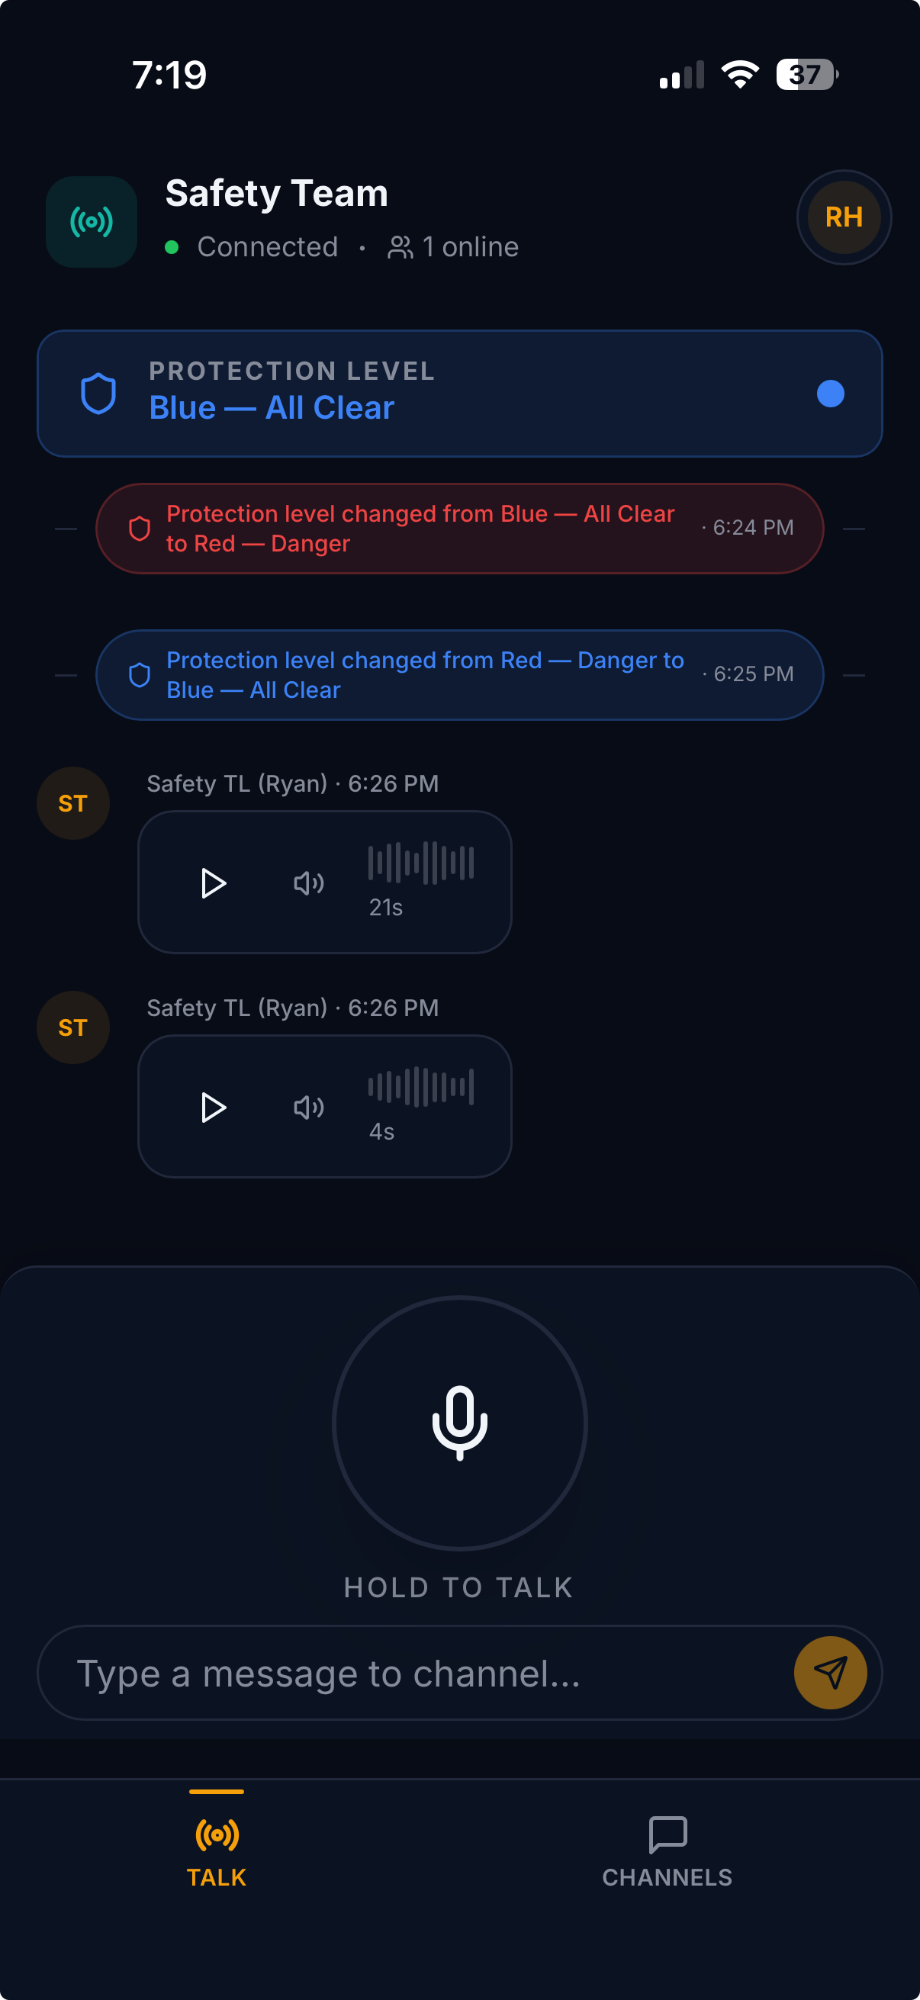
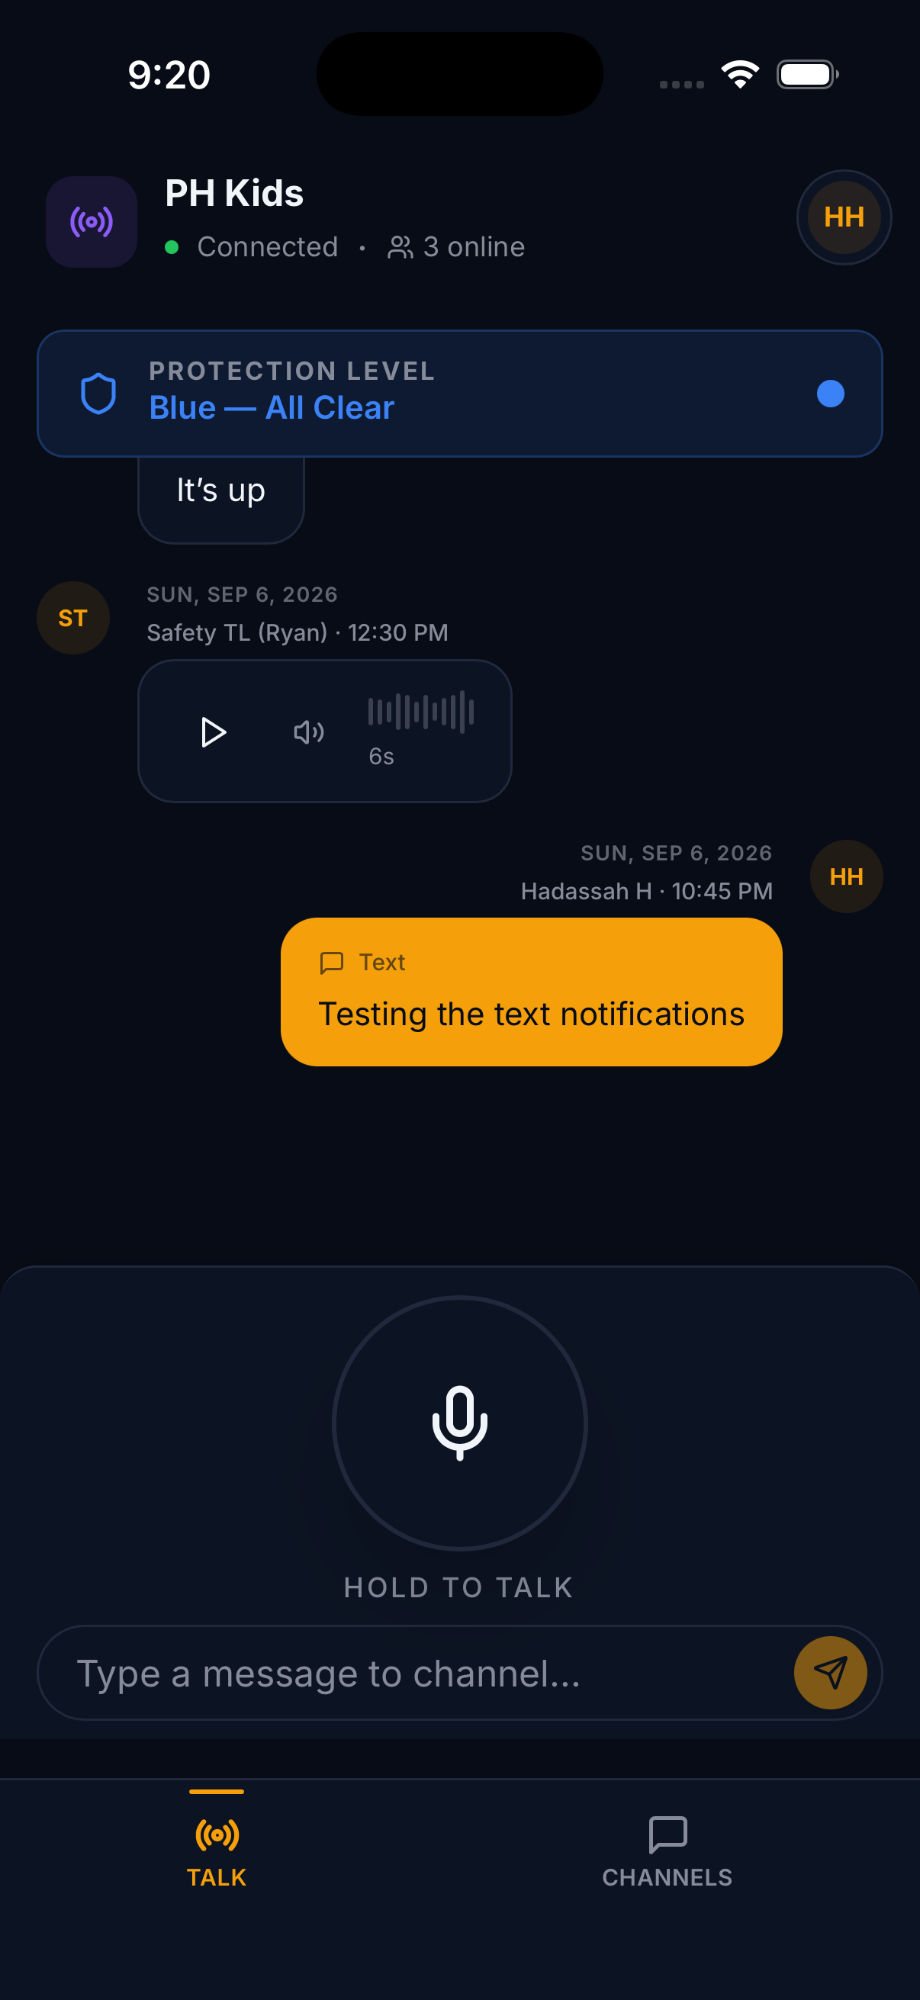
Add daily access code frame and iPad 2048x2732 screenshot size
Export three frames per size in sign-in flow order, add the second
accepted iPad 13" portrait size, and refresh the Talk frame with one
showing both voice and text messages.

diff --git a/src/lib/appStoreScreenshots.test.js b/src/lib/appStoreScreenshots.test.js
@@ -16,9 +16,10 @@ const REQUIRED = [
   { dir: "iphone-6.5-inch-1242x2688", width: 1242, height: 2688 },
   { dir: "iphone-5.5-inch-1242x2208", width: 1242, height: 2208 },
   { dir: "ipad-13-inch-2064x2752", width: 2064, height: 2752 },
+  { dir: "ipad-13-inch-2048x2732", width: 2048, height: 2732 },
 ];
 
-const FRAMES = ["01-signin.png", "02-talk.png"];
+const FRAMES = ["01-signin.png", "02-daily-code.png", "03-talk.png"];
 
 describe("App Store Connect screenshots", () => {
   for (const spec of REQUIRED) {
@@ -41,6 +42,7 @@ describe("App Store Connect screenshots", () => {
   it("keeps source frames for regeneration", () => {
     const names = readdirSync(shotRoot);
     assert.ok(names.includes("source-signin.png"));
+    assert.ok(names.includes("source-daily-code.png"));
     assert.ok(names.includes("source-talk.png"));
   });
 });

diff --git a/assets/app-store-screenshots/README.md b/assets/app-store-screenshots/README.md
@@ -1,9 +1,12 @@
 # App Store Connect screenshots
 
-Every folder holds the same two portrait frames at one accepted size:
+Every folder holds the same three portrait frames at one accepted size, ordered
+to follow the flow a reviewer walks through:
 
 - `01-signin.png` — sign-in screen
-- `02-talk.png` — Talk channel with protection level, voice messages, and hold-to-talk
+- `02-daily-code.png` — verse of the day and daily access code gate
+- `03-talk.png` — Talk channel with protection level, voice and text messages,
+  and hold-to-talk
 
 All files are PNG, 8-bit RGB, no alpha channel. App Store Connect rejects
 transparency and any size not listed below.
@@ -21,12 +24,15 @@ into, so match the folder to the slot heading on the page.
 | 6.5" Display (alternate) | `iphone-6.5-inch-1242x2688` | 1242 × 2688 |
 | 5.5" Display | `iphone-5.5-inch-1242x2208` | 1242 × 2208 |
 | iPad 13" Display | `ipad-13-inch-2064x2752` | 2064 × 2752 |
+| iPad 13" Display (alternate) | `ipad-13-inch-2048x2732` | 2048 × 2732 |
 
-The 6.5" slot accepts either 1284 × 2778 or 1242 × 2688; upload one folder, not
-both. `iphone-5.5-inch-1242x2208` is a different slot from
+Where a slot lists two folders, either is accepted; upload one, not both.
+`iphone-5.5-inch-1242x2208` is a different slot from
 `iphone-6.5-inch-1242x2688` despite the shared 1242 width.
 
-The iPad set is required because `TARGETED_DEVICE_FAMILY` is `1,2`.
+The iPad set is required because `TARGETED_DEVICE_FAMILY` is `1,2`. Only
+portrait is exported: iPhone is portrait-locked in `Info.plist`, and the source
+frames are phone captures, so a landscape canvas would be mostly padding.
 
 ## Regenerating
 
